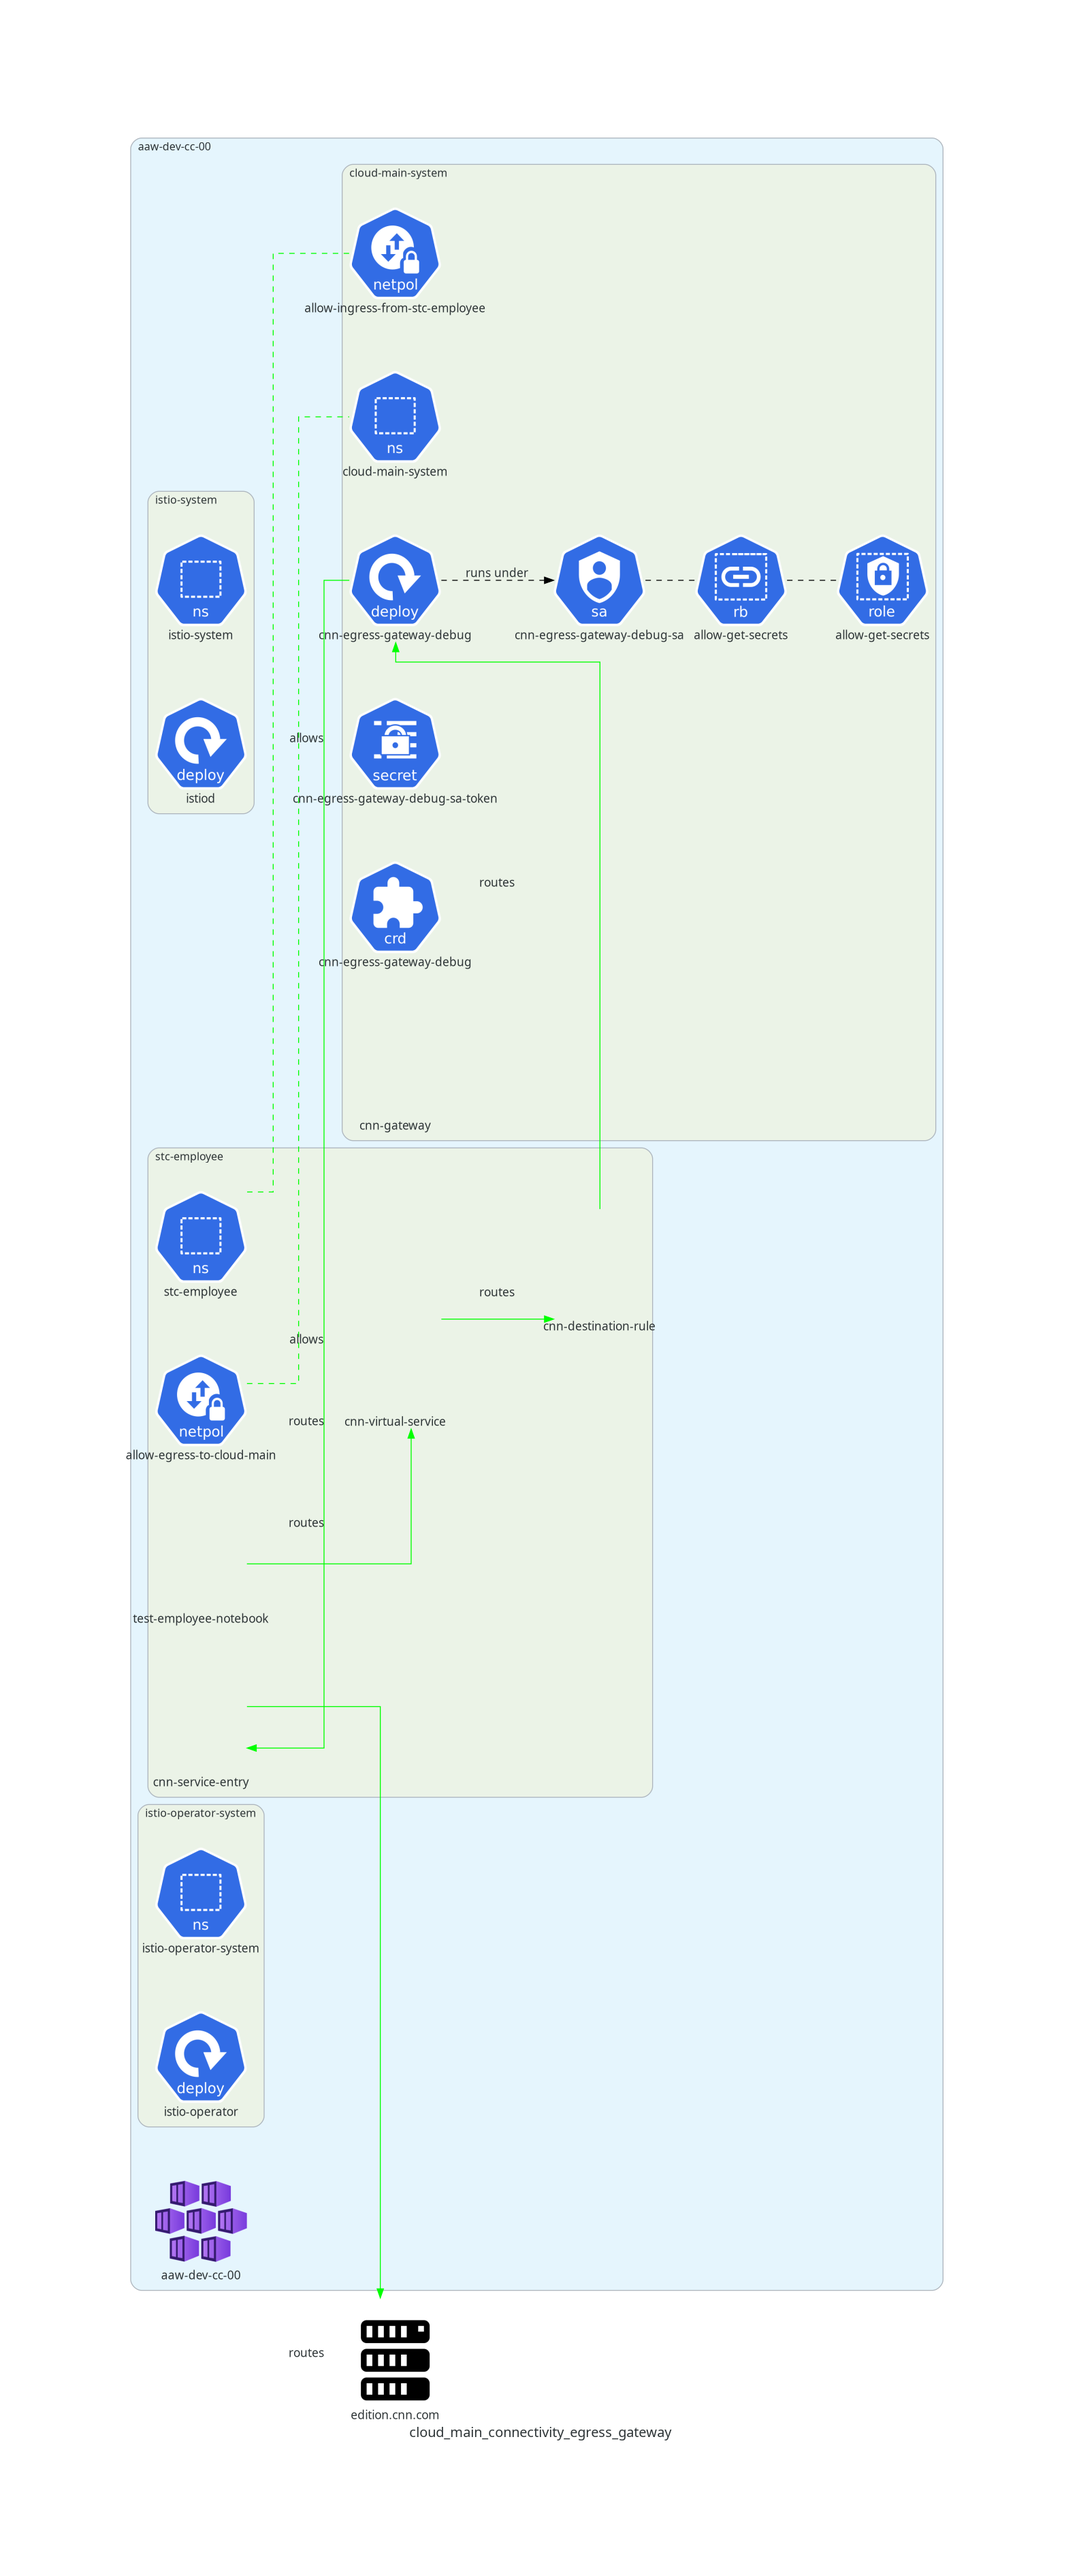
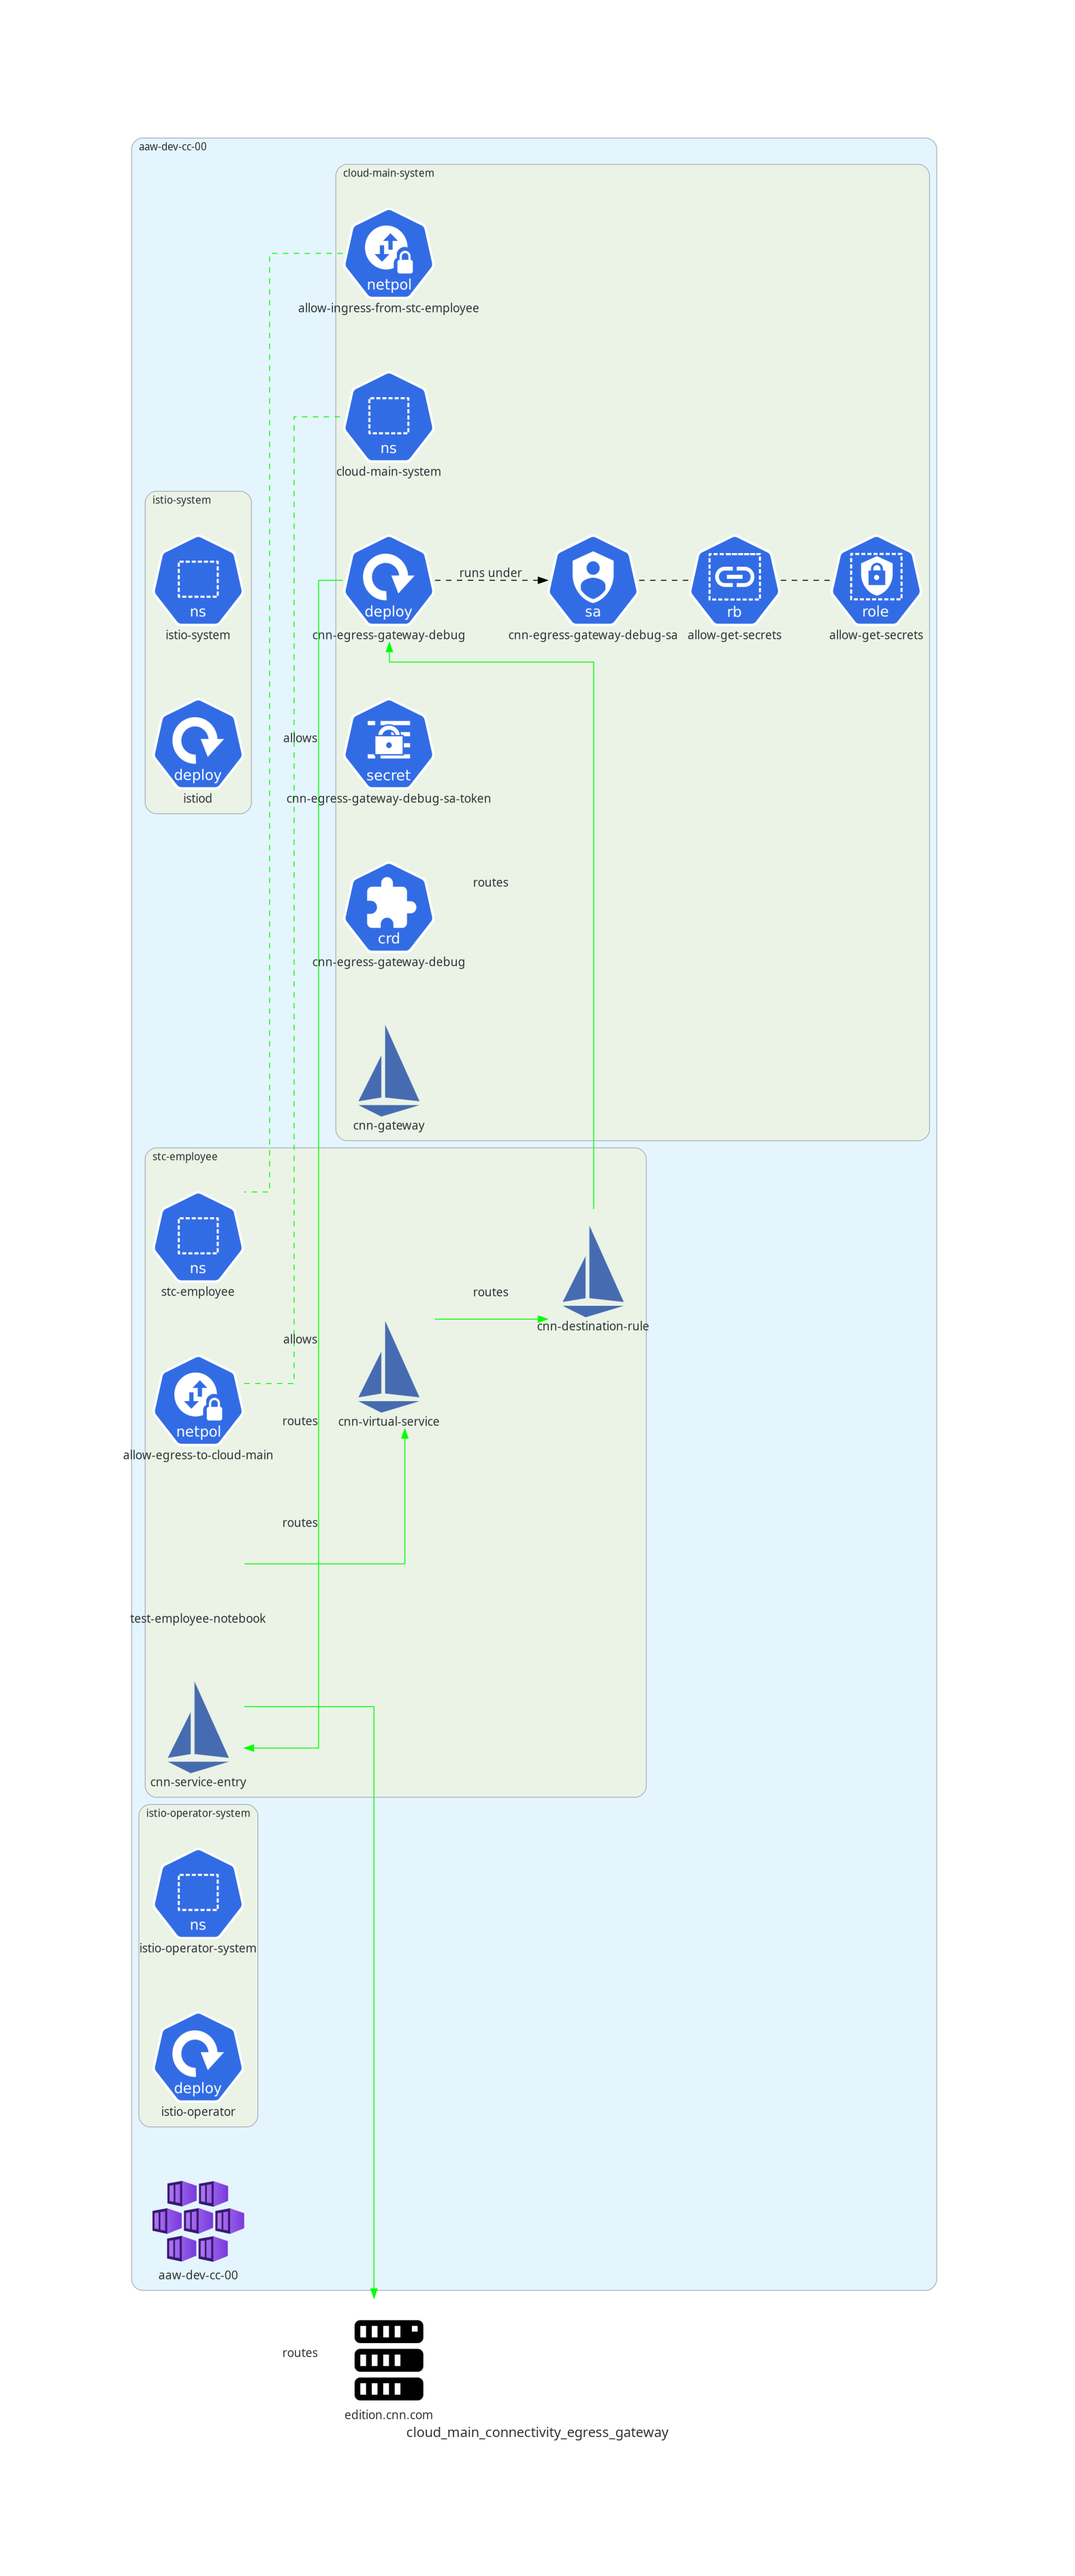
docs(cloud-main-connectivity): update diagram

diff --git a/docs/features/cloud-main-connectivity/cloud_main_connectivity_egress_gateway.py b/docs/features/cloud-main-connectivity/cloud_main_connectivity_egress_gateway.py
@@ -10,7 +10,7 @@ from diagrams.k8s.network import NetworkPolicy
 from diagrams.k8s.rbac import RoleBinding, Role, ServiceAccount
 from diagrams.k8s.podconfig import Secret
 from diagrams.onprem.compute import Server
-
+from diagrams.onprem.network import Istio
 
 def myself() -> str:
     f = os.path.basename(__file__)
@@ -40,16 +40,16 @@ with Diagram(myself(), show=False):
             # network policy
             allow_ingress_from_collin_brown = NetworkPolicy("allow-ingress-from-stc-employee")
             # istio
-            cnn_gateway = Custom("cnn-gateway", icon_path="icons/istio.png")
+            cnn_gateway = Istio("cnn-gateway")
         with Cluster("stc-employee"):
             collin_brown_ns = NS("stc-employee")
-            jupyter_notebook = Custom("test-employee-notebook", icon_path="icons/jupyter.png")
+            jupyter_notebook = Custom("test-employee-notebook", icon_path="img/jupyter.png")
             # network policy
             allow_egress_to_cloud_main = NetworkPolicy("allow-egress-to-cloud-main")
             # istio
-            cnn_virtual_service = Custom("cnn-virtual-service", icon_path="icons/istio.png")
-            cnn_destination_rule = Custom("cnn-destination-rule", icon_path="icons/istio.png")
-            cnn_service_entry = Custom("cnn-service-entry", icon_path="icons/istio.png")
+            cnn_virtual_service = Istio("cnn-virtual-service")
+            cnn_destination_rule = Istio("cnn-destination-rule")
+            cnn_service_entry = Istio("cnn-service-entry")
 
 
         # cnn_egress_gateway_debug pod runs under cnn_egress_gateway_debug_sa service account
